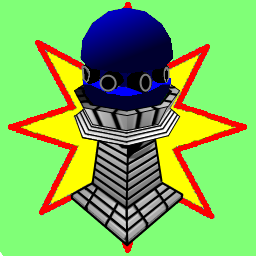
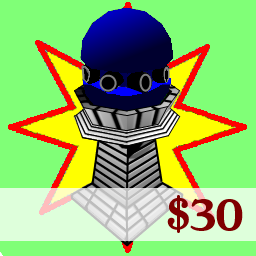
We show prices to the player

Changed region(s): [[0.0, 0.7188, 1.0, 0.9688]]

diff --git a/War of Troops/source/HUD.py b/War of Troops/source/HUD.py
@@ -55,6 +55,10 @@ class PlayScreenHUD (DirectObject):
 		self.changeTurnTimer = 0
 		self.troopObj = None
 		self.towerObj = None
+		self.priceTagShootPower = None
+		self.priceTagTxShoot = None
+		self.priceTagRangeView = None
+		self.priceTagTxTroops = None
 		
 	def __del__(self):
 		if (self.playScreenFrame != None):
@@ -123,22 +127,76 @@ class PlayScreenHUD (DirectObject):
 		scale = 0.017/self.isoScale
 		text = "+"
 		button = DirectButton(self.playScreenFrame, image = '../HUD images/plusButton.png', pos = [0.55/self.isoScale, 0, -0.605/self.isoScale], scale = scale, command=self.updateTowerAttr, extraArgs = ["shootPower", 1])
+		button.bind(DGG.WITHIN, self.showAttributePrice, extraArgs=["shootPower", 1])
+		button.bind(DGG.WITHOUT, self.destroyPriceTags, extraArgs=["shootPower"])
+		
 		button = DirectButton(self.playScreenFrame, image = '../HUD images/plusButton.png', pos = [0.55/self.isoScale, 0, -0.650/self.isoScale ], scale = scale, command=self.updateTowerAttr, extraArgs = ["txShoot", 1])
+		button.bind(DGG.WITHIN, self.showAttributePrice, extraArgs=["txShoot", 1])
+		button.bind(DGG.WITHOUT, self.destroyPriceTags, extraArgs=["txShoot"])
+		
 		#button = DirectButton(self.playScreenFrame, image = '../HUD images/plusButton.png', pos = [0.55/self.isoScale, 0, -0.695/self.isoScale ], scale = scale, command=self.updateTowerAttr, extraArgs = ["rangeView", 1])
+		#button.bind(DGG.WITHIN, self.showAttributePrice, extraArgs=["rangeView", 1])
+		#button.bind(DGG.WITHOUT, self.destroyPriceTags, extraArgs=["rangeView"])
+		
 		button = DirectButton(self.playScreenFrame, image = '../HUD images/plusButton.png', pos = [0.55/self.isoScale, 0, -0.740/self.isoScale ], scale = scale, command=self.updateTowerAttr, extraArgs = ["txTroops", 1])
+		button.bind(DGG.WITHIN, self.showAttributePrice, extraArgs=["txTroops", 1])
+		button.bind(DGG.WITHOUT, self.destroyPriceTags, extraArgs=["txTroops"])
 		
 	def minusAttribButton(self):
 		scale = 0.017/self.isoScale
 		text = "-"
 		button = DirectButton(self.playScreenFrame, image = '../HUD images/minusButton.png', pos = [0.6/self.isoScale, 0, -0.605/self.isoScale], scale = scale, command=self.updateTowerAttr, extraArgs = ["shootPower", -1])
+		button.bind(DGG.WITHIN, self.showAttributePrice, extraArgs=["shootPower", -1])
+		button.bind(DGG.WITHOUT, self.destroyPriceTags, extraArgs=["shootPower"])
+		
 		button = DirectButton(self.playScreenFrame, image = '../HUD images/minusButton.png', pos = [0.6/self.isoScale, 0, -0.650/self.isoScale], scale = scale, command=self.updateTowerAttr, extraArgs = ["txShoot", -1])
+		button.bind(DGG.WITHIN, self.showAttributePrice, extraArgs=["txShoot", -1])
+		button.bind(DGG.WITHOUT, self.destroyPriceTags, extraArgs=["txShoot"])
+		
 		#button = DirectButton(self.playScreenFrame, image = '../HUD images/minusButton.png', pos = [0.6/self.isoScale, 0, -0.695/self.isoScale], scale = scale, command=self.updateTowerAttr, extraArgs = ["rangeView", -1])
+		#button.bind(DGG.WITHIN, self.showAttributePrice, extraArgs=["rangeView", -1])
+		#button.bind(DGG.WITHOUT, self.destroyPriceTags, extraArgs=["rangeView"])
+		
 		button = DirectButton(self.playScreenFrame, image = '../HUD images/minusButton.png', pos = [0.6/self.isoScale, 0, -0.740/self.isoScale], scale = scale, command=self.updateTowerAttr, extraArgs = ["txTroops", -1])
+		button.bind(DGG.WITHIN, self.showAttributePrice, extraArgs=["txTroops", -1])
+		button.bind(DGG.WITHOUT, self.destroyPriceTags, extraArgs=["txTroops"])
 
 	def updateTowerAttr(self, attrType, value):
 		if self.towerObj != None:
 			self.towerObj.updateAttribute(attrType, value)
 			self.updateTowerAttributeTexts(self.towerObj)
+	
+	def destroyPriceTags(self, attrType, noidea):
+			if attrType == 'shootPower' and self.priceTagShootPower != None:
+				self.priceTagShootPower.destroy()
+			elif attrType == 'txShoot' and self.priceTagTxShoot != None:
+				self.priceTagTxShoot.destroy()
+			elif attrType == 'rangeView' and self.priceTagRangeView != None:
+				self.priceTagRangeView.destroy()
+			elif attrType == 'txTroops' and self.priceTagTxTroops != None:
+				self.priceTagTxTroops.destroy()
+		
+	
+	def showAttributePrice(self, attrType, value, noidea):
+		if self.towerObj != None:
+			priceTag = self.towerObj.getAttributePrice(attrType)
+			priceTag = "$"+str(priceTag)
+			labelPosX = 0
+			if value < 0:
+				labelPosX = 0.667
+				priceTag = "+"+priceTag
+			else:
+				labelPosX = 0.617
+				priceTag = "-"+priceTag
+			if attrType == 'shootPower':
+				self.priceTagShootPower = DirectLabel(self.playScreenFrame, text=priceTag, text_bg = (255,255,255,0.8), frameColor = (0,0,0,0), pos = [labelPosX/self.isoScale, 0, -0.600/self.isoScale], scale = 0.05/self.isoScale)
+			elif attrType == 'txShoot':
+				self.priceTagTxShoot = DirectLabel(self.playScreenFrame, text=priceTag, text_bg = (255,255,255,0.8), frameColor = (0,0,0,0), pos = [labelPosX/self.isoScale, 0, -0.645/self.isoScale], scale = 0.05/self.isoScale)
+			elif attrType == 'rangeView':
+				self.priceTagRangeView = DirectLabel(self.playScreenFrame, text=priceTag, text_bg = (255,255,255,0.8), frameColor = (0,0,0,0), pos = [labelPosX/self.isoScale, 0, -0.690/self.isoScale], scale = 0.05/self.isoScale)
+			elif attrType == 'txTroops':
+				self.priceTagTxTroops = DirectLabel(self.playScreenFrame, text=priceTag, text_bg = (255,255,255,0.8), frameColor = (0,0,0,0), pos = [labelPosX/self.isoScale, 0, -0.735/self.isoScale], scale = 0.05/self.isoScale)
+		
 		
 	def turnPassButton(self):
 		position = [1.63/self.isoScale, 0, -0.485/self.isoScale]

diff --git a/War of Troops/source/tower.py b/War of Troops/source/tower.py
@@ -350,6 +350,16 @@ class Tower():
 		aimImpulseForce = [self.listShootPower[0]*cosPhiAngle*cos(thetaAngle), self.listShootPower[0]*sinPhiAngle*cos(thetaAngle), self.listShootPower[0]*sin(thetaAngle)]
 		return aimImpulseForce
 
+	def getAttributePrice(self, attrType):
+		if attrType == 'shootPower':
+			return self.shootPowerPrice
+		elif attrType == 'txShoot':
+			return self.txShootPrice
+		elif attrType == 'rangeView':
+			return self.rangeViewPrice
+		elif attrType == 'txTroops':
+			return self.txTroopsPrice
+	
 	def updateAttribute(self, attrType, value):
 		if value > 0:
 			if attrType == 'shootPower':
